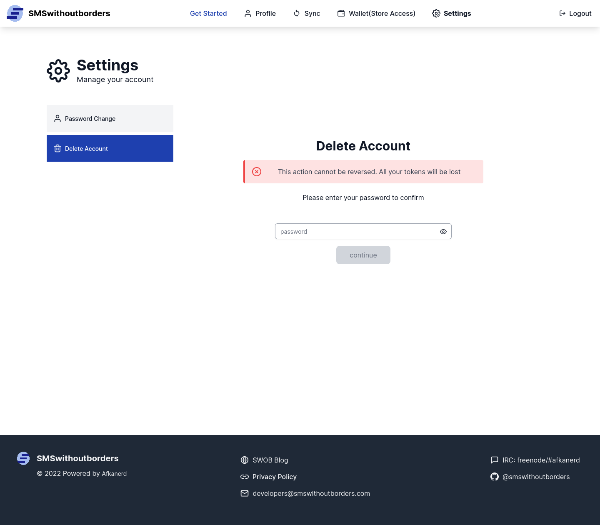
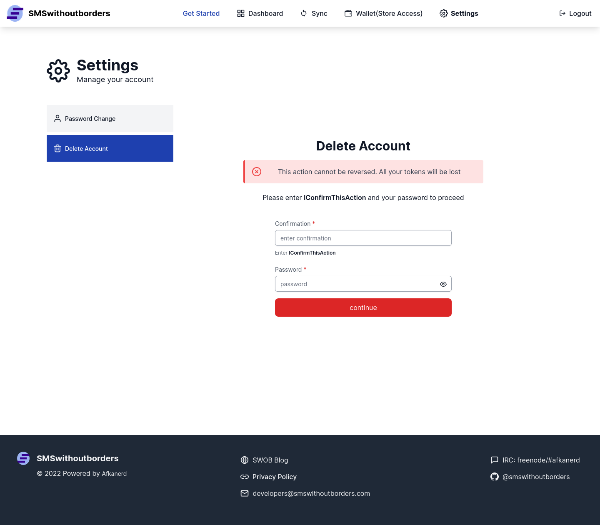
update: add checks to make sure users are certain about deleting their accounts

diff --git a/src/pages/settings/AccountDeletion.js b/src/pages/settings/AccountDeletion.js
@@ -1,37 +1,64 @@
-import React, { useState } from "react";
+import React from "react";
 import toast from "react-hot-toast";
 import { useDeleteAccountMutation } from "services";
 import { authSelector, resetStore } from "features";
 import { useDispatch, useSelector } from "react-redux";
 import { useNavigate } from "react-router-dom";
+import { useForm } from "react-hook-form";
+import { yupResolver } from "@hookform/resolvers/yup";
+import * as yup from "yup";
 import {
   Alert,
+  Input,
+  Label,
   Button,
   Loader,
   useTitle,
   FormGroup,
+  ErrorMessage,
   PasswordInput,
 } from "components";
+
+const schema = yup.object().shape({
+  password: yup
+    .string()
+    .min(8, "Password must be at least 8 characters")
+    .required("Password is required"),
+  confirmation: yup
+    .string()
+    .oneOf(
+      ["IConfirmThisAction"],
+      "please enter IConfirmThisAction to confirm"
+    ),
+});
 
 const AccountDeletion = () => {
   useTitle("Account Deletion");
   const auth = useSelector(authSelector);
   const dispatch = useDispatch();
   const navigate = useNavigate();
-  const [password, setPassword] = useState();
   const [deleteAccount, { isLoading, isSuccess }] = useDeleteAccountMutation();
 
-  async function handleDeletion(evt) {
-    // stop default form action
-    evt.preventDefault();
-    // build request body
-    const data = {
-      ...auth,
-      password: password,
-    };
+  const {
+    register,
+    formState: { errors },
+    handleSubmit,
+  } = useForm({
+    resolver: yupResolver(schema),
+    defaultValues: {
+      name: "",
+    },
+  });
 
+  async function handleDeletion(data) {
+    // build request body
+    const request = {
+      ...auth,
+      password: data.password,
+    };
+    
     try {
-      await deleteAccount(data).unwrap();
+      await deleteAccount(request).unwrap();
       toast.success("Your account has been deleted. Sad to see you go");
       // clear store/ logout user
       dispatch(resetStore());
@@ -93,28 +120,53 @@ const AccountDeletion = () => {
         message="This action cannot be reversed. All your tokens will be lost"
         hideCloseButton
       />
-      <p>Please enter your password to confirm</p>
+      <p>
+        Please enter <strong>IConfirmThisAction</strong> and your password to
+        proceed
+      </p>
 
-      <div className="max-w-md mx-auto mt-12">
+      <div className="max-w-md mx-auto mt-8">
         <form
-          className="px-4 mx-auto sm:px-3"
-          onSubmit={(evt) => handleDeletion(evt)}
+          className="px-4 mx-auto text-left sm:px-3"
+          onSubmit={handleSubmit(handleDeletion)}
         >
           <FormGroup>
+            <Label htmlFor="name" required>
+              Confirmation
+            </Label>
+            <Input
+              type="text"
+              name="confirmation"
+              placeholder="enter confirmation"
+              {...register("confirmation")}
+              error={errors.name}
+            />
+            {errors.confirmation && (
+              <ErrorMessage>{errors.confirmation.message}</ErrorMessage>
+            )}
+            <small className="block mt-2 text-xs text-gray-600">
+              Enter <strong>IConfirmThisAction</strong>
+            </small>
+          </FormGroup>
+          <FormGroup>
+            <Label htmlFor="password" required>
+              Password
+            </Label>
             <PasswordInput
               name="password"
               placeholder="password"
-              min={8}
-              required
-              onChange={(evt) => setPassword(evt.target.value)}
+              {...register("password")}
+              error={errors.password}
               showStrength={false}
             />
+            {errors.password && (
+              <ErrorMessage>{errors.password.message}</ErrorMessage>
+            )}
           </FormGroup>
 
           <Button
-            className="bg-red-600 hover:bg-red-500 focus:bg-red-700 disabled:bg-gray-300"
             type="submit"
-            disabled={password?.length >= 8 ? false : true}
+            className="w-full bg-red-600 hover:bg-red-500 focus:bg-red-600 disabled:bg-gray-300"
           >
             continue
           </Button>
